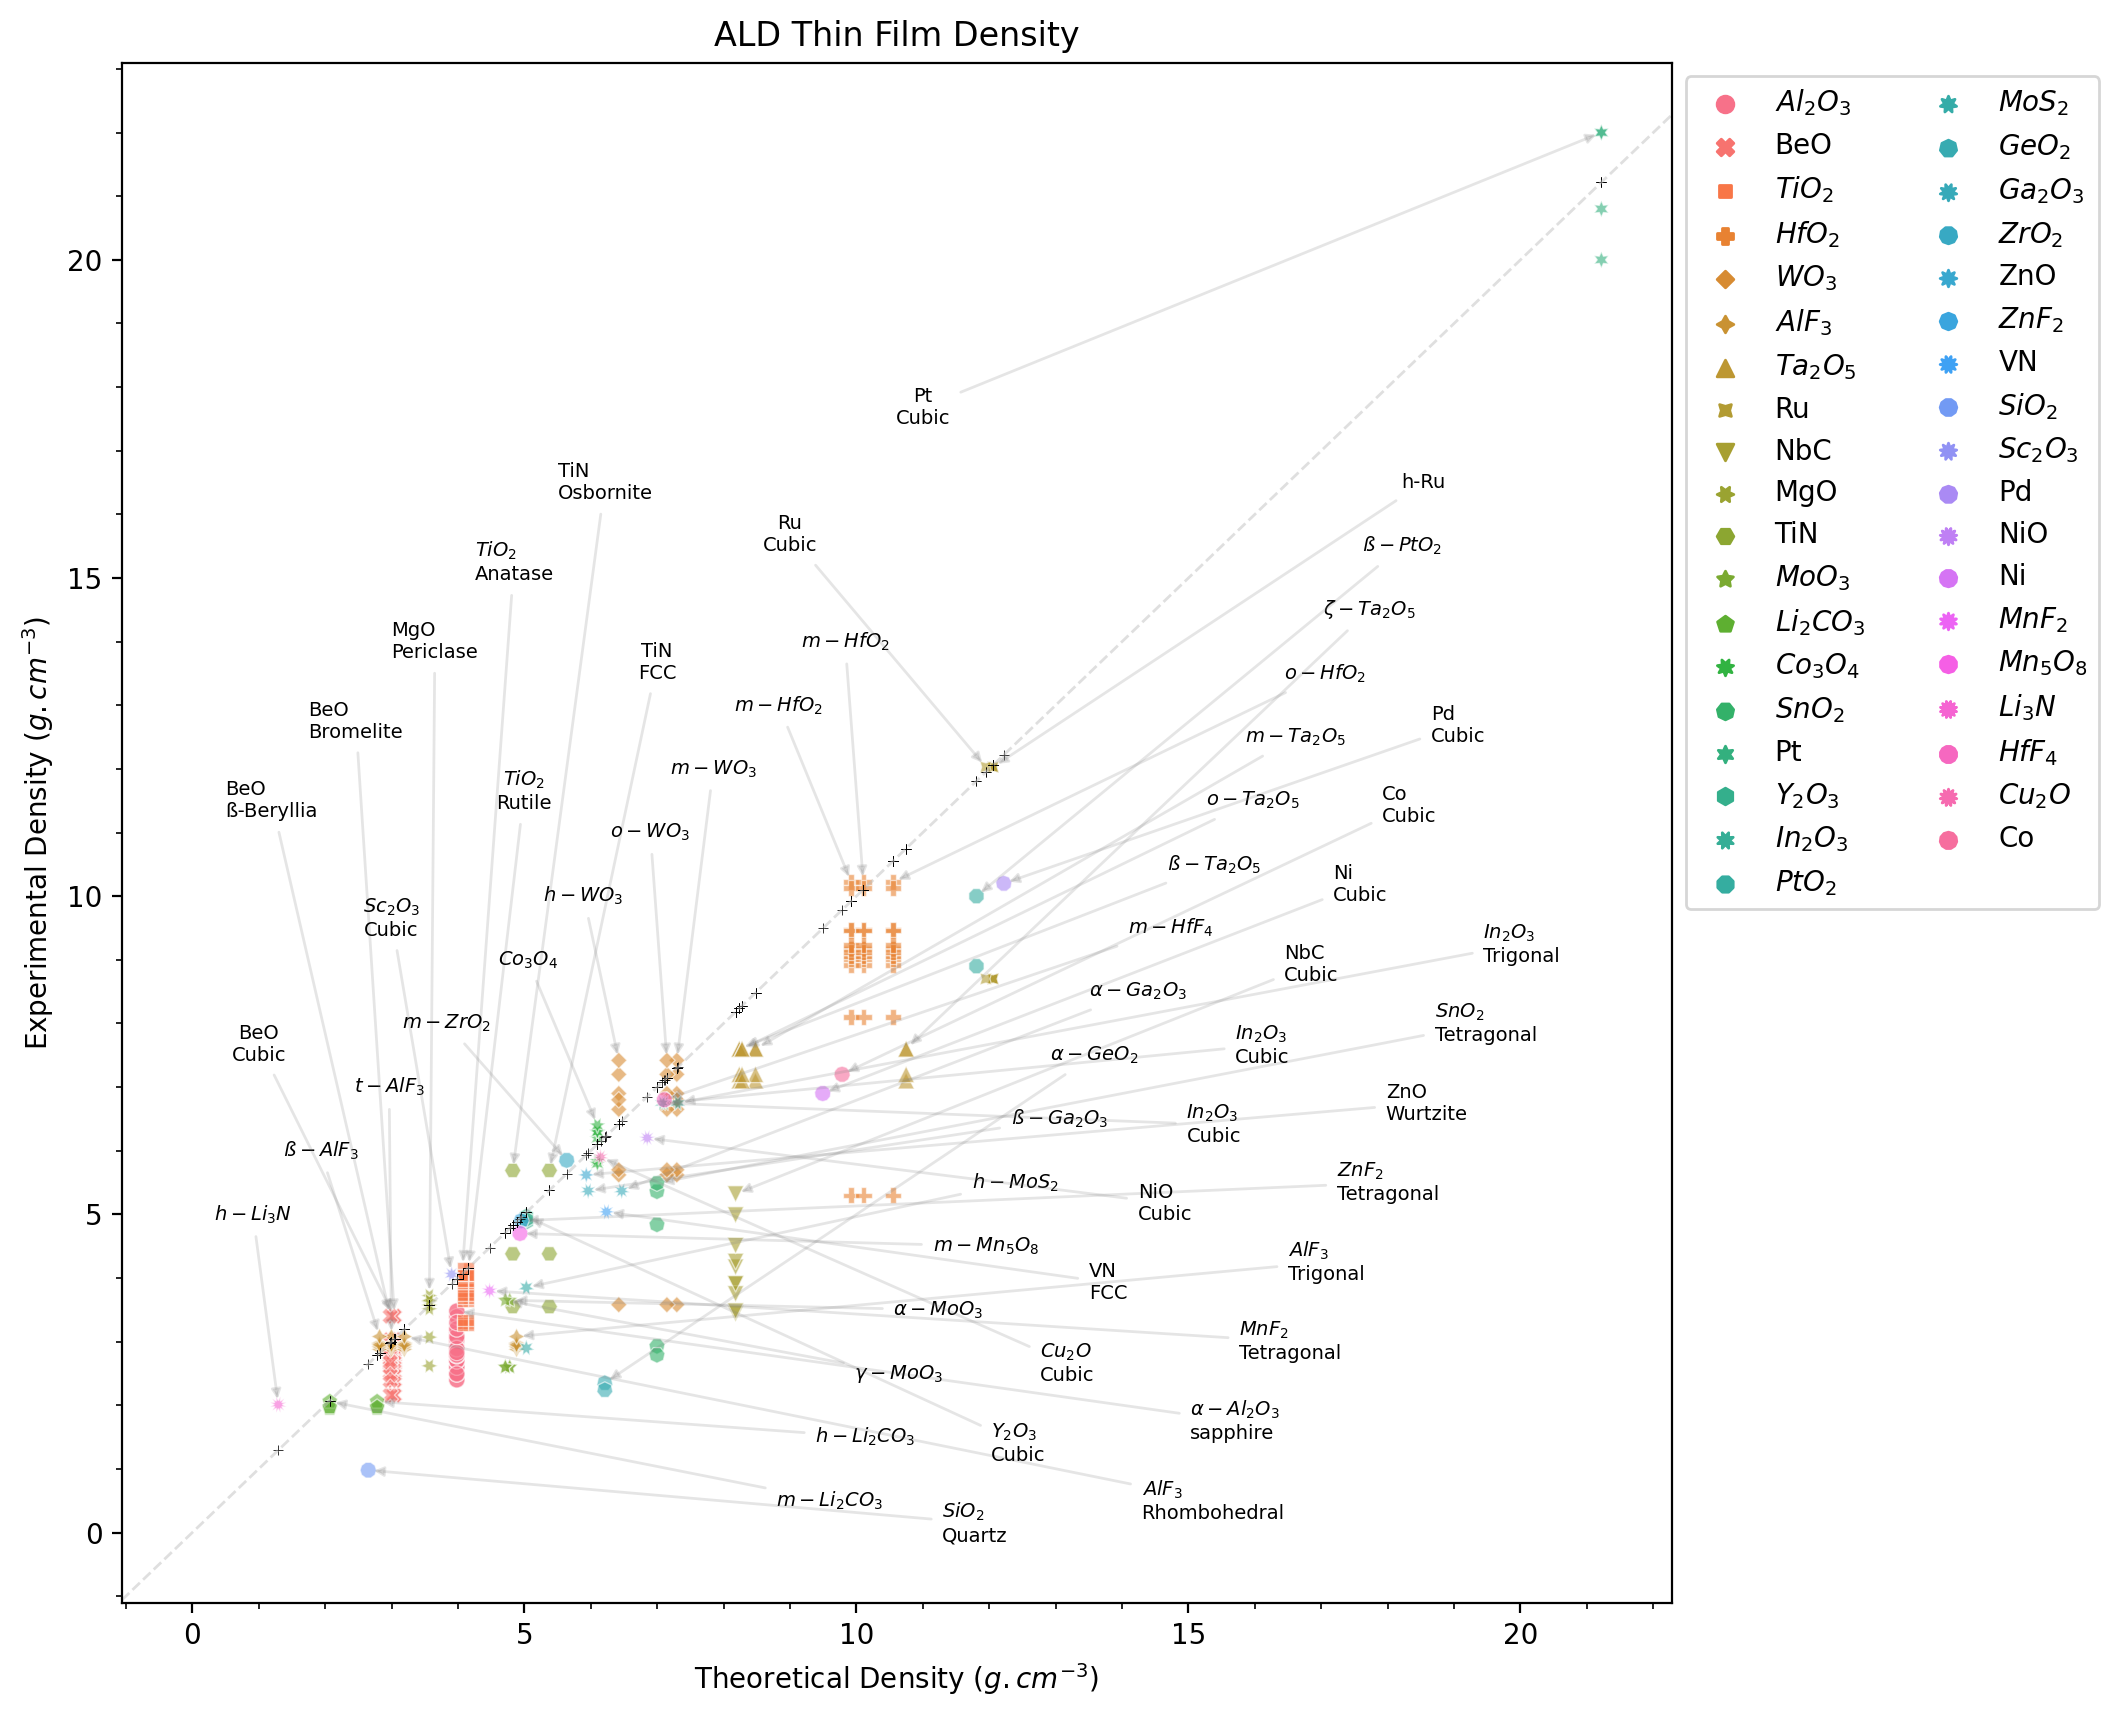
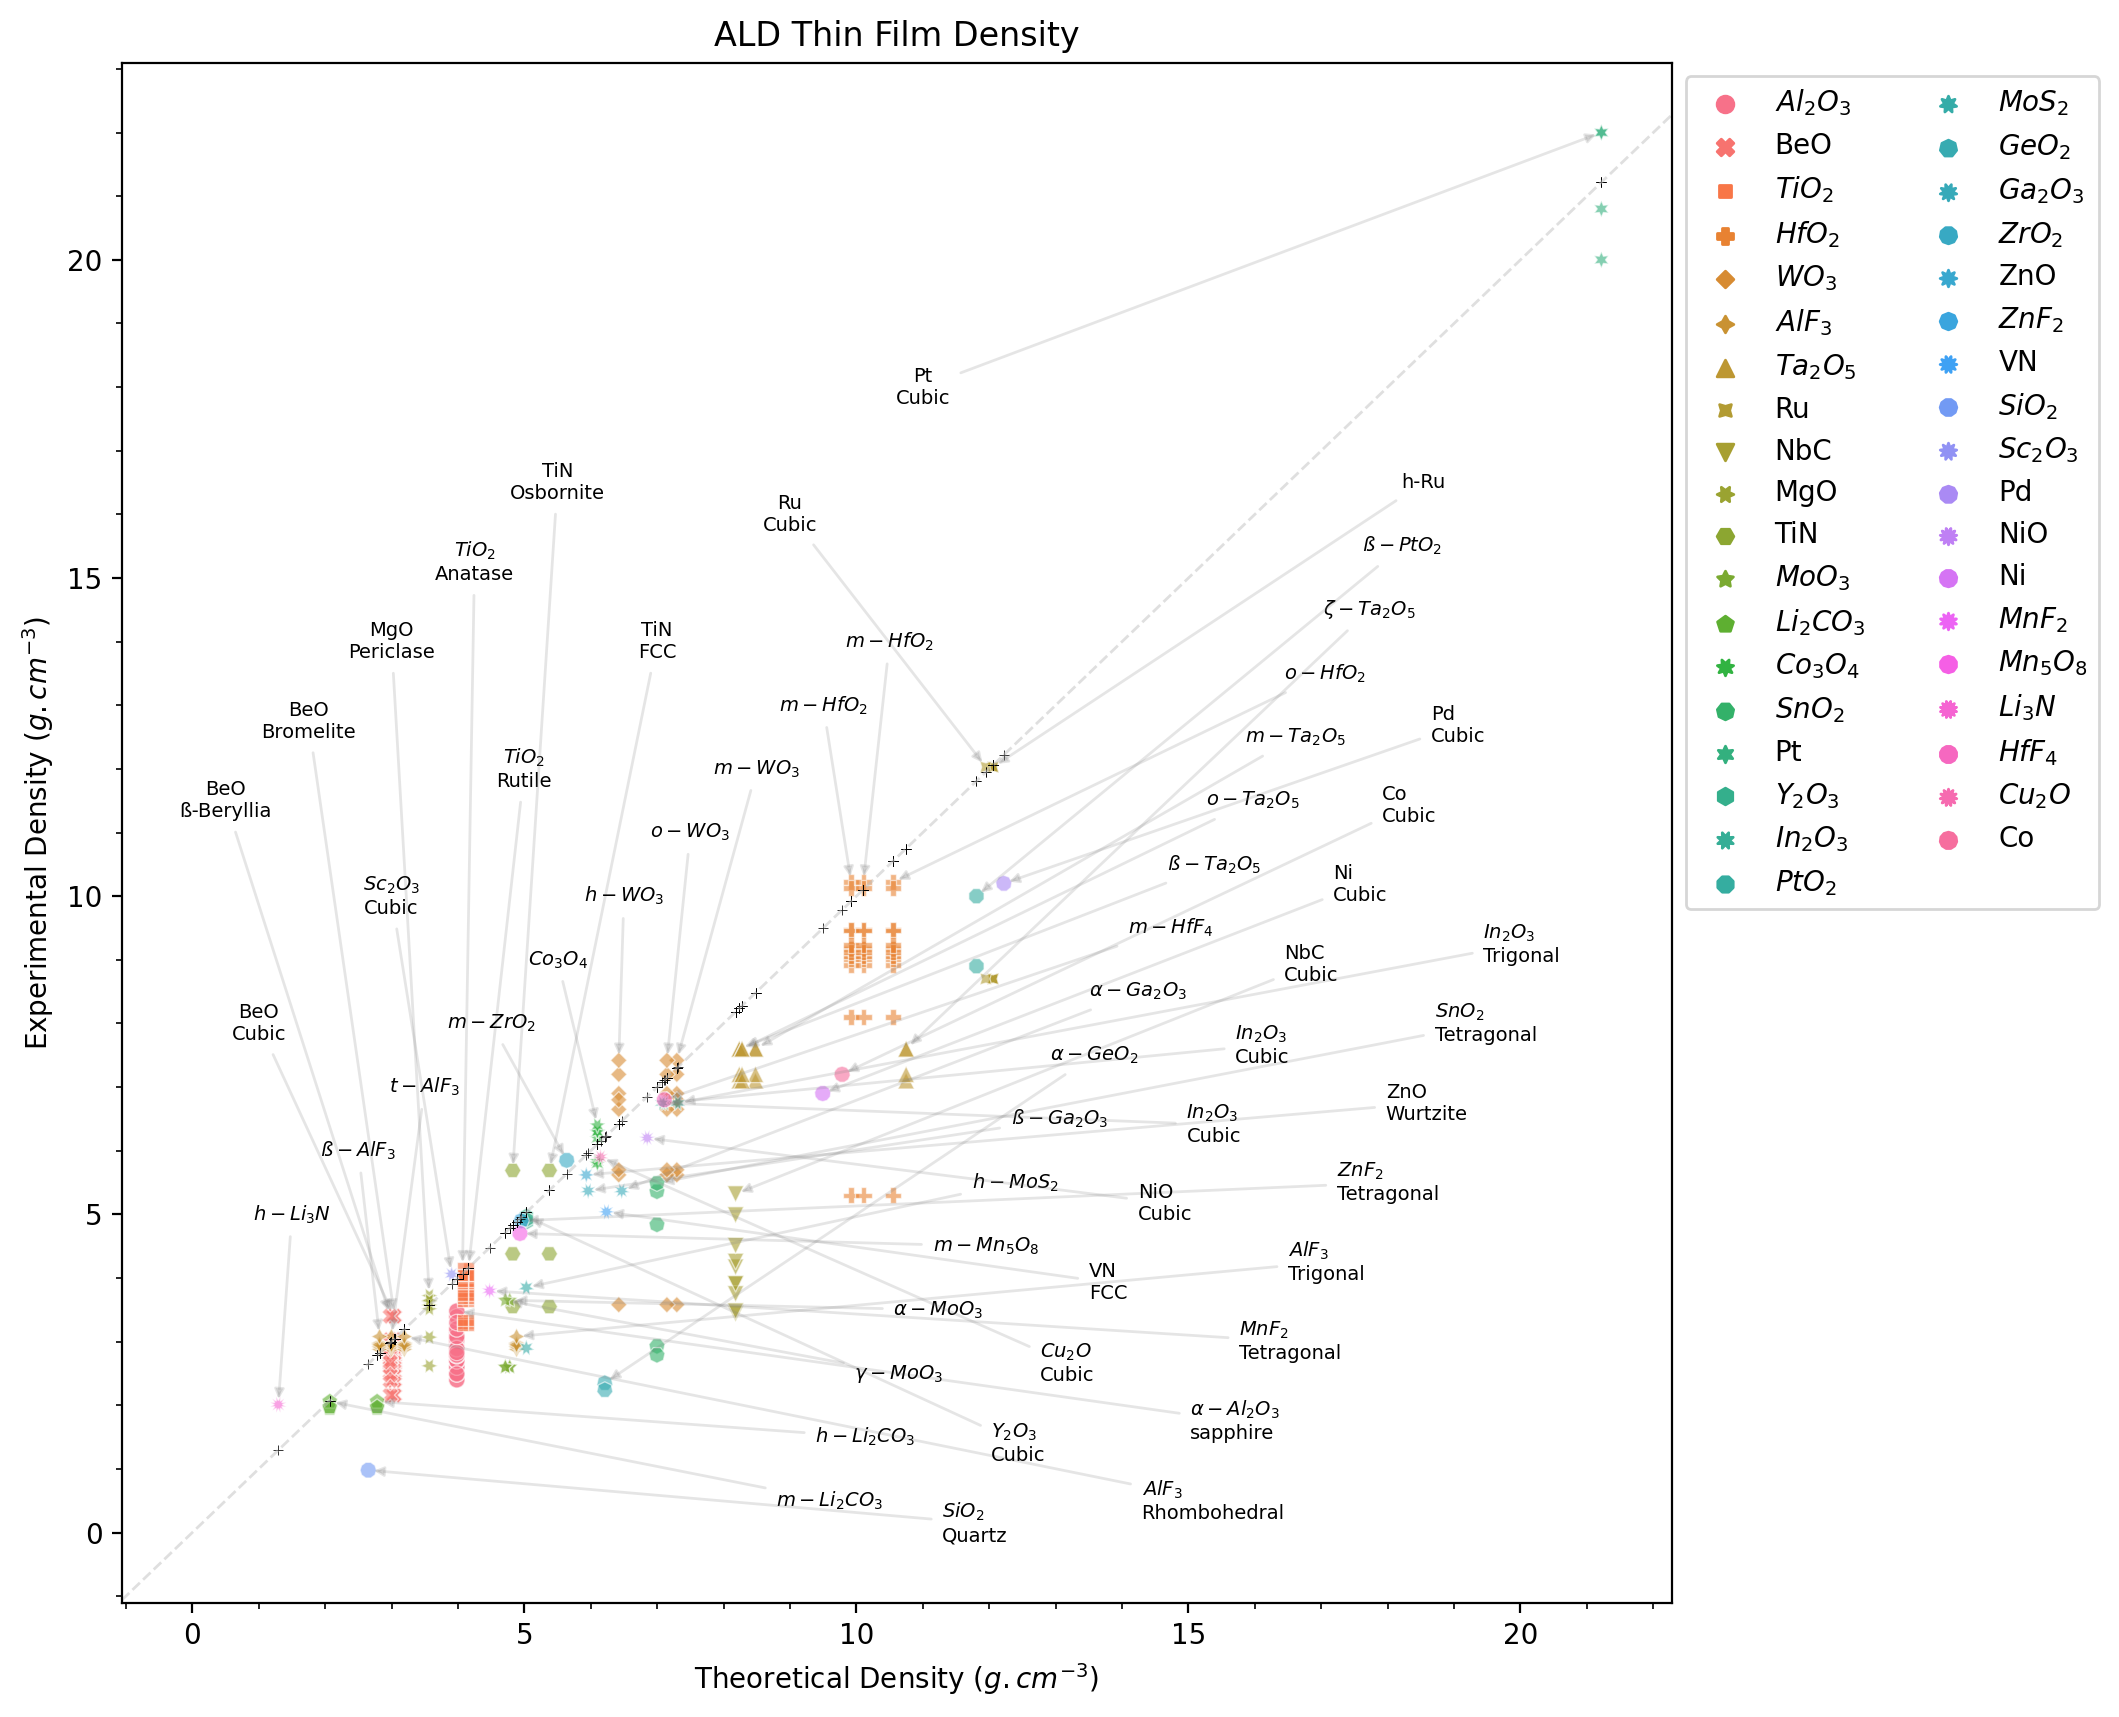
ET plot update

diff --git a/scripts/ald-density-ET.py b/scripts/ald-density-ET.py
@@ -428,224 +428,14 @@ def plot_data1(df, x, y, z, point_labels,  **kwargs):
         valign = "center"
 
         # # ADJUST TEXT PLACEMENT OFFSETS
-        # if below_line:
-        #     ox = 5.0
-        #     oy = -2.0 # lowers the text on the plot
 
-        #     if manylines:
-        #         ox = 8.5
-        #         oy = -0.5
-
-        #         if point_section == 1:
-        #             ox = 4.5
-        #             oy = -6.0
-
-        #         elif point_section == 2:
-        #             ox = 7.0
-        #             oy = -6.0
-
-        #             if seq_lbl_lines % 2 == 1:
-        #                 ox = 9.0
-        #                 oy = -4.0
-
-        #         elif point_section == 3:
-        #             oy = 2.0
-
-        #     elif lg_twolines:
-        #         ox = 15.0
-        #         oy = -3.5
-
-        #         if seq_lbl_lines % 3 == 1:
-        #             ox -= 5.0
-        #             oy += 0.75
-
-        #         elif seq_lbl_lines % 3 == 2:
-        #             ox -= 3.0
-        #             oy -= 0.25
-
-        #         if point_section == 1:
-        #             ox -= 3.0
-        #             oy -= 2.5
-
-
-        #         elif point_in_section_last:
-        #             ox = 0
-        #             oy = -2.0
-           
-        #     elif sm_twolines:
-        #         # print("-"*30,seq_lbl_lines, seq_lbl_lines % 5)
-        #         ox = 8.0
-        #         oy = -3.5
-
-        #         if seq_lbl_lines % 3 == 1:
-        #             ox -= 1.5
-        #             oy += 1.0
-
-        #         elif seq_lbl_lines % 3 == 2:
-        #             ox -= 3.5
-        #             oy += 1.8
-
-        #         if point_section == 1:
-        #             ox -= 4.0
-        #             oy -= 2.5
-
-
-        #     elif oneline:
-        #         ox = 0.5
-        #         oy = -2.5
-
-        #         if seq_lbl_lines % 3 == 0:
-        #             ox += 0.5
-        #             oy -= 0.75
-
-        #         elif seq_lbl_lines % 3 == 1:
-        #             ox += 1.5
-        #             oy -= 1.75
-
-        #         if point_section == 1:
-        #             ox = 1.0
-        #             oy = -2.0
-        #         elif point_section == 2:
-        #             ox += 1.2
-        #             oy -= 0.25
-
-
-        #     if point_in_margin_y_low: print(f"MARGIN / Y L {pnt_lbl}\n")
-        #     elif point_in_section_first: print(f"SECTION / X1 {pnt_lbl}\n")
-
-        #     if point_in_margin_x_high: print(f"MARGIN / X H {pnt_lbl}\n")
-        #     elif point_in_section_last: print(f"SECTION / X3 {pnt_lbl}\n")
-
-        #     if point_in_section_middle: print(f"SECTION / X2 {pnt_lbl}\n")
-
-        # else: # above line
-        #     ox = -3.0
-        #     oy = 2.75
-
-        #     # place labels by number of lines
-        #     if manylines:
-        #         ox = -2.0
-        #         oy = 7.0
-
-        #         if point_section == 1:
-        #             ox = -2.5
-        #             oy = 10.0
-
-        #         elif point_section == 2:
-        #             ox = -2.5
-        #             oy = 9.5
-
-        #             if seq_lbl_lines % 3 == 1:
-        #                 ox = -5.5
-        #                 oy = 7.0
-
-        #             if seq_lbl_lines % 3 == 2:
-        #                 ox = -5.1
-        #                 oy = 8.5
-
-        #         elif point_in_section_last:
-        #             ox = -10.0
-        #             oy = -2.0
-
-        #     elif lg_twolines:
-        #         ox = -3.0
-        #         oy = 15.0
-
-        #         if point_section == 1:
-        #             if seq_lbl_lines % 3 == 2:
-        #                 # ox = -2.5
-        #                 oy -= 1.5
-
-        #             if seq_lbl_lines % 3 == 1:
-        #                 ox -= 0.5
-        #                 oy -= 3.0
-
-        #         elif point_section == 2:
-        #             ox += 0.5
-        #             oy -= 3.5
-
-        #             if seq_lbl_lines % 3 == 2: pass
-        #                 # ox += 0.5
-        #                 # oy = 3.0
-
-        #             if seq_lbl_lines % 3 == 1: pass
-        #                 # ox -= 0.5
-        #                 # oy = 3.75
-
-        #         elif point_section == 3:
-        #             ox += 0.5
-        #             oy -= 6.0
-
-        #             if seq_lbl_lines % 3 == 2: pass
-        #             if seq_lbl_lines % 3 == 1: pass
-
-        #     elif sm_twolines:
-        #         ox = -3.1
-        #         oy = 10.0
-
-        #         if point_section == 1:
-        #             # ox += 1.0
-        #             oy -= 3.0
-
-        #         elif point_section == 2: 
-        #             ox += 1.2
-        #             oy -= 0.5
-
-        #             if seq_lbl_lines % 2 == 0:
-        #                 ox -= 0.2
-        #                 oy -= 2.7
-
-        #         elif point_section == 4:
-        #             ox += 2.0
-        #             oy -= 4.0
-
-        #         elif point_in_section_last: 
-        #             ox = 1.3
-        #             oy = -0.5
-
-
-        #     elif oneline:
-        #         # print("-"*30,seq_lbl_lines, seq_lbl_lines % 5)
-        #         ox = -1.25
-        #         oy = 4.25
-
-        #         if seq_lbl_lines % 3 == 2:
-        #             base = oy - 1.75
-        #             oy = oy - 2.4 if point_section == 1 else base
-
-        #         elif seq_lbl_lines % 3 == 1:
-        #             base = oy - 2.4
-        #             oy = oy - 1.75 if point_section == 1 else base
-
-        #         if point_section == 1:
-        #             ox -= 1.75
-        #             # oy = 1.0
-
-        #         elif point_in_section_last:
-        #             ox = -2.0
-        #             oy = -0.05
-
-
-        #     # optionally adjust placement of labels by location in plot
-        #     if point_in_margin_x_low: print(f"MARGIN X L / {pnt_lbl}\n")
-        #     elif point_in_section_first: print(f"SECTION X1 / {pnt_lbl}\n")
-
-        #     if point_in_margin_y_high: print(f"MARGIN Y H / {pnt_lbl}\n")
-        #     elif point_in_section_last: print(f"SECTION X3 / {pnt_lbl}\n")
-
-        #     if point_in_section_middle: print(f"SECTION X2 / {pnt_lbl}\n")
-        #     if not(point_in_section_middle): pass
-
-
-        # # add offsets
-        # y_txt += oy
-        # x_txt += ox
 
         if below_line:
             x_txt = x_thr
             y_txt = 0
             # mmm=1.7
 
+            slider = 0.0
             equ_x_offset=8.5 # x offset
             pnt_scalor=2.0 # expansion scale
             y_line=0.5 # line to expand away from
@@ -684,18 +474,22 @@ def plot_data1(df, x, y, z, point_labels,  **kwargs):
                 valign = "center"
 
 
+            y_base_values = seq_lbl_lines/2.0
             b=y_line * (1-pnt_scalor)
-            u=(pnt_scalor *(seq_lbl_lines/2.0)) + b
+            u=(pnt_scalor *(y_base_values)) + b
+
             xx=u/equ_slope + equ_x_offset
             yy=u
 
-            x_txt = xx
-            y_txt = yy
+            x_txt = xx + slider
+            y_txt = yy + slider
 
         else: # above line
             x_txt = x_thr
             y_txt = 0
-            # mmm=1.7
+
+            halign = "center"
+            valign = "center"
 
             slider=0
             equ_y_offset=3.5 # x offset
@@ -712,8 +506,8 @@ def plot_data1(df, x, y, z, point_labels,  **kwargs):
                 # x_line=1.0 # line to expand away from
                 # equ_slope=mmm # slope
 
-                halign = "right"
-                valign = "center"
+                # halign = "right"
+                # valign = "center"
 
             elif sm_twolines:
                 # print(seq_lbl_lines, y_exp, pnt_lbl)
@@ -724,8 +518,8 @@ def plot_data1(df, x, y, z, point_labels,  **kwargs):
                 # equ_slope=mmm # slope
 
                 # rad = -0.05
-                halign = "center"
-                valign = "top"
+                # halign = "center"
+                # valign = "top"
 
             elif lg_twolines:
                 equ_y_offset=11.0 # x offset
@@ -734,12 +528,13 @@ def plot_data1(df, x, y, z, point_labels,  **kwargs):
                 # equ_slope=mmm # slope
 
                 # rad = -0.05
-                halign = "left"
-                valign = "center"
+                # halign = "left"
+                # valign = "center"
 
-
+            x_base_values = seq_lbl_lines/2.0
             b=x_line * (1-pnt_scalor)
-            u=(pnt_scalor *(seq_lbl_lines/2.0)) + b
+            u=(pnt_scalor *(x_base_values)) + b
+
             xx=u
             yy=u/equ_slope + equ_y_offset
 
